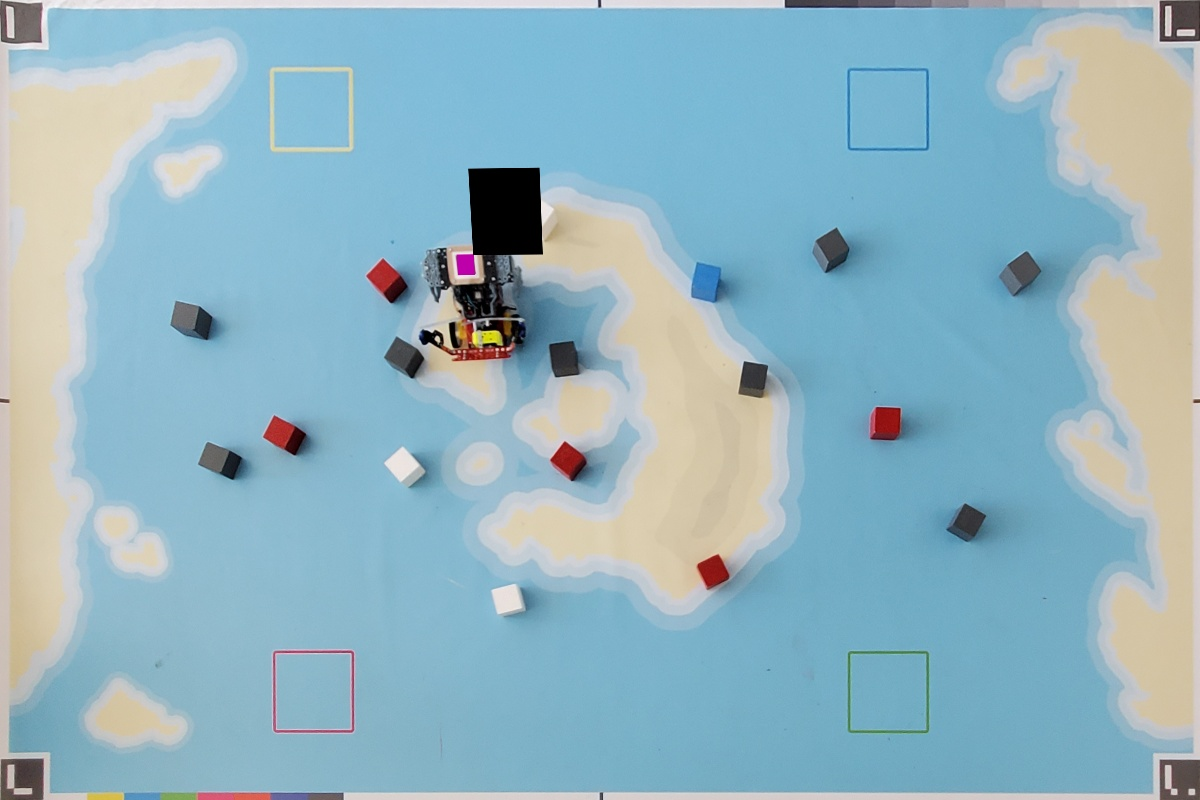
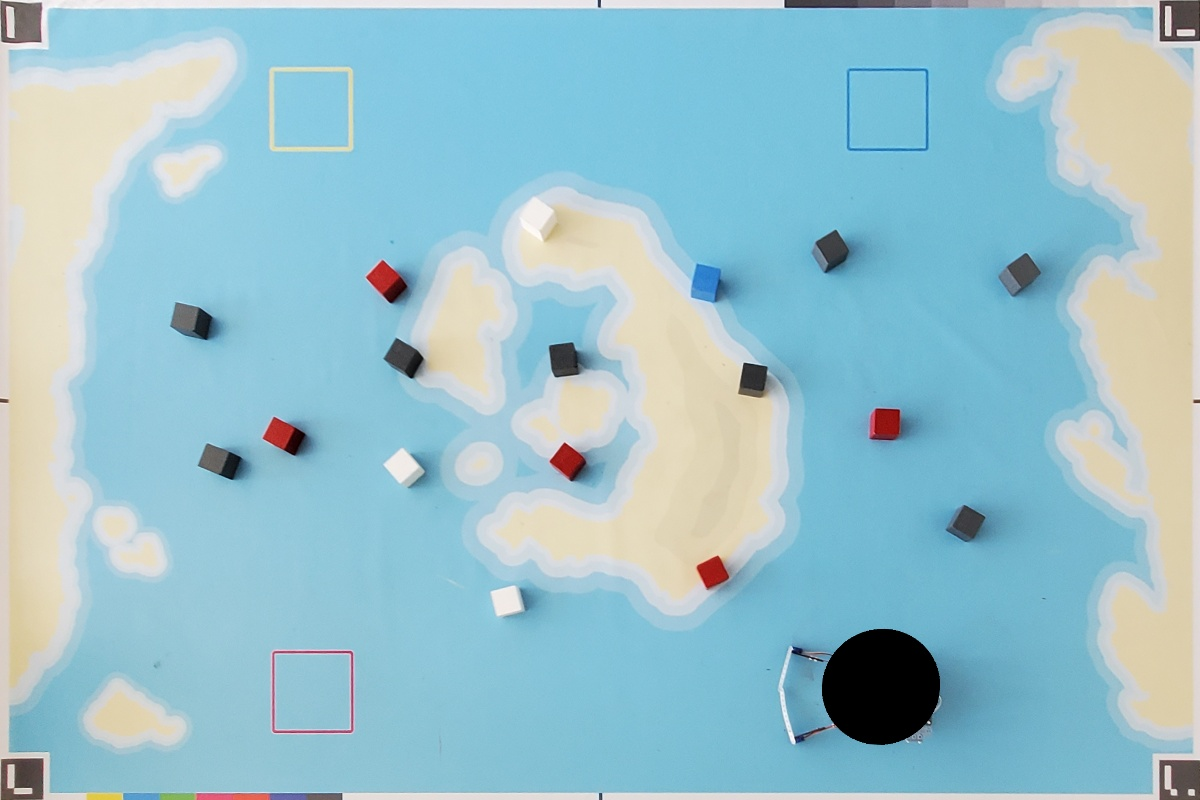
Code clean avec hitbox, différents masques (manque blanc), resizing, cropping et colorisation de l'image

diff --git a/pythonProject/Cal_couleurs.py b/pythonProject/Cal_couleurs.py
@@ -17,14 +17,8 @@ def calculate_perspective_transform_matrix(Corner1, Corner2, Corner3, Corner4, s
 
 
 def get_mean_hsv(image, center):
-    """
-    Get the mean HSV value in a 5 pixel radius circle around a specified center.
-    Args:
-        image: Input image in BGR format.
-        center: Tuple containing the (x, y) coordinates of the circle center.
-    Returns:
-        Tuple containing the mean HSV value (Hue, Saturation, Value).
-    """
+    #Get the mean HSV value in a 5 pixel radius circle around a specified center.
+
     x, y = center
     hsv_image = cv2.cvtColor(image, cv2.COLOR_BGR2HSV)
     circle_mask = np.zeros_like(hsv_image[:, :, 0], dtype=np.uint8)
@@ -34,14 +28,8 @@ def get_mean_hsv(image, center):
 
 
 def get_mean_bgr(image, center):
-    """
-    Get the mean HSV value in a 5 pixel radius circle around a specified center.
-    Args:
-        image: Input image in BGR format.
-        center: Tuple containing the (x, y) coordinates of the circle center.
-    Returns:
-        Tuple containing the mean HSV value (Hue, Saturation, Value).
-    """
+    #Get the mean BGR value in a 5 pixel radius circle around a specified center.
+
     x, y = center
     bgr_image = image
     circle_mask = np.zeros_like(bgr_image[:, :, 0], dtype=np.uint8)
@@ -50,36 +38,41 @@ def get_mean_bgr(image, center):
     return tuple(map(round, mean_bgr))
 
 
-# Mettre à 0 pour camera, 1 pour photos
+# 0 for camera, 1 for photos
 TEST = 1
 
 final_size = (1200, 800)
 
-# Taille réelle de l'ArUco en millimètres
-taille_reelle_aruco_mm = 42.0  # Modifier cette valeur selon la taille réelle de votre ArUco
 
 if TEST != 1:
     cap = cv2.VideoCapture(0)
 
+# Defintion of the aruco detection parameters
 aruco_dict = aruco.getPredefinedDictionary(aruco.DICT_ARUCO_ORIGINAL)
 
 parameters = aruco.DetectorParameters()
 detector = aruco.ArucoDetector(aruco_dict, parameters)
 
 nomImages = (
-"Images\PhotoCam2_1.jpg", "Images\PhotoCarteRobot5.jpg", "Images\PhotoCarteRobot9.jpg", "Images\PhotoCarteRobot1.jpg",
-"Images\PhotoCarteRobot2.jpg", "Images\PhotoCarteRobot3.jpg", "Images\PhotoCarteRobot6.jpg",
-"Images\PhotoCarteRobot8.jpg", "Images\PhotoCarteRobot10.jpg", "Images\ConfigBlocsAvecArucoCote1.jpg",
-"Images\PhotoCarteTelephone5.jpg",
-"Images\ConfigBlocsAvecArucoCote3.jpg", "Images\ConfigBlocsAvecArucoDessusLoin1.jpg",
-"Images\ConfigBlocsAvecArucoDessusProche1.jpg")
+    "Images\PhotoCam2_1.jpg",                              #cpt =  0
+    "Images\PhotoCarteRobot5.jpg",                         #cpt =  1
+    "Images\PhotoCarteRobot9.jpg",                         #cpt =  2
+    "Images\PhotoCarteRobot1.jpg",                         #cpt =  3
+    "Images\PhotoCarteRobot2.jpg",                         #cpt =  4
+    "Images\PhotoCarteRobot3.jpg",                         #cpt =  5
+    "Images\PhotoCarteRobot6.jpg",                         #cpt =  6
+    "Images\PhotoCarteRobot8.jpg",                         #cpt =  7
+    "Images\PhotoCarteRobot10.jpg",                        #cpt =  8
+    "Images\ConfigBlocsAvecArucoCote1.jpg",                #cpt =  9
+    "Images\PhotoCarteTelephone5.jpg",                     #cpt =  10
+    "Images\ConfigBlocsAvecArucoCote3.jpg",                #cpt =  11
+    "Images\ConfigBlocsAvecArucoDessusLoin1.jpg",          #cpt =  12
+    "Images\ConfigBlocsAvecArucoDessusProche1.jpg")        #cpt =  13
 nbImages = len(nomImages)
 
 frame = cv2.imread(nomImages[0])
 
-cpt = 2
-
-# 130*120      der = 30   h = b = 55
+cpt = 5
 
 while True:
     if TEST == 0:
@@ -87,7 +80,7 @@ while True:
     elif TEST == 1:
         frame = cv2.imread(nomImages[cpt])
         frame = cv2.resize(frame, (0, 0), fx=0.7, fy=0.7)
-        if cv2.waitKey(1) & 0xFF == ord('p'):
+        if cv2.waitKey(1) & 0xFF == ord('p'):                   # While the code is running press 'p' to go to the next image
             cpt += 1
             if cpt == nbImages:
                 cpt = 0
@@ -96,65 +89,60 @@ while True:
     corners, ids, rejectedCandidates = detector.detectMarkers(gray)
 
     if ids is not None:
-        # Recherche des indices des marqueurs BGCarte et BDCarte dans la liste ids
-        bg_index = None
-        bd_index = None
         Corner1 = None
         Corner2 = None
         Corner3 = None
         Corner4 = None
         for i in range(len(ids)):
             if ids[i] == 0:
-                p1, p2, p3, p4 = corners[i][0]  # Extract corner points
+                p1, p2, p3, p4 = corners[i][0]  # Extract corner1 points
                 Corner1 = p1
             elif ids[i] == 1:
-                p1, p2, p3, p4 = corners[i][0]  # Extract corner points
+                p1, p2, p3, p4 = corners[i][0]  # Extract corner2 points
                 Corner2 = p2
             elif ids[i] == 2:
-                p1, p2, p3, p4 = corners[i][0]  # Extract corner points
+                p1, p2, p3, p4 = corners[i][0]  # Extract corner3 points
                 Corner3 = p3
             elif ids[i] == 3:
-                p1, p2, p3, p4 = corners[i][0]  # Extract corner points
+                p1, p2, p3, p4 = corners[i][0]  # Extract corner4 points
                 Corner4 = p4
 
         M = calculate_perspective_transform_matrix(Corner1, Corner2, Corner4, Corner3, final_size)
-
+        hit_img = frame.copy()
         for i in range(len(ids)):
-            TextOnScreen = "Inconnu"
-            ColorText = (0, 0, 0)
             if ids[i] == 132:
-                cv2.rectangle(frame, (int(corners[i][0][0][0]), int(corners[i][0][0][1])),
-                              (int(corners[i][0][2][0]), int(corners[i][0][2][1])),
-                              (170, 0, 190), -1)
-            else:
-                TextOnScreen = None
+                # Calculate the midpoint between the bottom two corners
+                bottom_midpoint_x = (int(corners[i][0][2][0]) + int(corners[i][0][3][0])) // 2
+                bottom_midpoint_y = (int(corners[i][0][2][1]) + int(corners[i][0][3][1])) // 2
 
+                # Calculate the direction vector from the bottom two corners
+                direction_vector_x = int(corners[i][0][2][0]) - int(corners[i][0][3][0])
+                direction_vector_y = int(corners[i][0][2][1]) - int(corners[i][0][3][1])
 
+                # Normalize the direction vector
+                direction_vector_length = np.sqrt(direction_vector_x ** 2 + direction_vector_y ** 2)
+                normalized_direction_vector_x = direction_vector_x / direction_vector_length
+                normalized_direction_vector_y = direction_vector_y / direction_vector_length
 
+                # Move the midpoint 10 pixels in front of the equidistance of the bottom two corners
+                new_center_x = bottom_midpoint_x + int(65 * normalized_direction_vector_x)
+                new_center_y = bottom_midpoint_y + int(65 * normalized_direction_vector_y)
+                # Draw a circle in front of the aruco (New Hitbox)
+                cv2.circle(frame, (new_center_x, new_center_y),
+                           115,
+                           (0, 0, 0), -1)
 
-        if ids is not None and 132 in ids:
-            # Find the index of the marker with ID 132
-            idx = list(ids).index(132)
-
-            # Get the corners of the detected marker
-
-            # Draw a black filled rectangle over the detected marker
-            cv2.rectangle(frame, (int(corners[idx][0][0][0]), int(corners[idx][0][0][1])),
-                          (int(corners[idx][0][0][0]) + 130, int(corners[idx][0][0][1]) + 120),
-                          (0, 0, 0), -1)
-
-            # Display the image with the rectangle drawn
-
-        '''else:
-            print("Marker with ID 132 not found.")'''
         dst = cv2.warpPerspective(frame, M, final_size)
+        hit_img = cv2.warpPerspective(hit_img, M, final_size)
 
+        # Saving the images to a file
         cv2.imwrite("Images\Frame.jpg", frame)
         cv2.imwrite("Images\Transformed_image.jpg", dst)
+        cv2.imwrite("Images\Hitbox.jpg", hit_img)
 
         # Open the image
         image = cv2.imread(
-            "Images/Transformed_image.jpg")  # Replace "Images/Transformed_image.jpg" with the path to your image file
+            "Images/Transformed_image.jpg")
 
         # Define the dimensions of the centered rectangle
         crop_width = 1110
@@ -170,8 +158,10 @@ while True:
         cropped_image = image[top:bottom, left:right]
 
         # Save the cropped image
-        cv2.imwrite("Images/cropped_frame.jpg", cropped_image)  # Save the cropped image to a file
+        cv2.imwrite("Images/cropped_frame.jpg", cropped_image)
 
+        #Displaying different results
+        cv2.imshow('Hitbox', hit_img)
         cv2.imshow('Perspective Transformation Result', dst)
         cv2.imshow('Cropped image', cropped_image)
 
@@ -183,6 +173,7 @@ while True:
         circle_radius = 10
         # Get the mean HSV values for each circle
         mean_hsv_values = []
+        # Get the mean BGR values for each circle
         mean_bgr_values = []
 
         for center in circle_centers:
@@ -194,20 +185,23 @@ while True:
             mean_bgr_values.append(mean_bgr)
 
         # Print the mean HSV values
-        '''for i in range(5):
-            print(f"Circle {i + 1}: Mean HSV = {mean_hsv_values[i][0]} {mean_hsv_values[i][1]} {mean_hsv_values[i][2]}")
+        for i in range(5):
+            '''print(f"Circle {i + 1}: Mean HSV = {mean_hsv_values[i][0]} {mean_hsv_values[i][1]} {mean_hsv_values[i][2]}")'''
+            # Convert HSV mean values to BGR in order to draw on the frame 'img_copy'
             bgr_color = cv2.cvtColor(
                 np.uint8([[[mean_hsv_values[i][0], mean_hsv_values[i][1], mean_hsv_values[i][2]]]]), cv2.COLOR_HSV2BGR)
             bgr_color = (int(bgr_color[0][0][0]), int(bgr_color[0][0][1]), int(bgr_color[0][0][2]))
+            # Draw filled circles
             cv2.circle(img_copy, (circle_centers[i][0], circle_centers[i][1]), circle_radius, bgr_color, -1)
 
             cv2.circle(img_copy, (circle_centers_grey[i][0], circle_centers_grey[i][1]), circle_radius,
-                       (mean_bgr_values[i][0], mean_bgr_values[i][1], mean_bgr_values[i][2]), -1)  # Draw filled circles'''
+                       (mean_bgr_values[i][0], mean_bgr_values[i][1], mean_bgr_values[i][2]), -1)  # Draw filled circles
 
-        '''cv2.imshow("Image with Circles", img_copy)'''
+        cv2.imshow("Color calibration", img_copy)
 
         hsv_img = cv2.cvtColor(cropped_image, cv2.COLOR_BGR2HSV)
         for i in range(5):
+        # Definition of mask boundaries with the previously acquired mean values
             if i == 1:
                 # Blue
                 bound_lower = np.array(
@@ -235,7 +229,7 @@ while True:
                 grey_mask = cv2.inRange(cropped_image, bound_lower, bound_upper)
 
         kernel = np.ones((7, 7), np.uint8)
-
+        # Definition and displaying of different masks
         blue_mask = cv2.morphologyEx(blue_mask, cv2.MORPH_CLOSE, kernel)
         blue_mask = cv2.morphologyEx(blue_mask, cv2.MORPH_OPEN, kernel)
 
@@ -256,10 +250,10 @@ while True:
 
         display_grey_mask = cv2.bitwise_and(cropped_image, cropped_image, mask=grey_mask)
 
-        '''cv2.imshow("Blue mask", display_blue_mask)
+        cv2.imshow("Blue mask", display_blue_mask)
         cv2.imshow("Magenta mask", display_magenta_mask)
         cv2.imshow("Red mask", display_red_mask)
-        cv2.imshow("Grey mask", display_grey_mask)'''
+        cv2.imshow("Grey mask", display_grey_mask)
     if cv2.waitKey(1) & 0xFF == ord('q'):
         break
 
